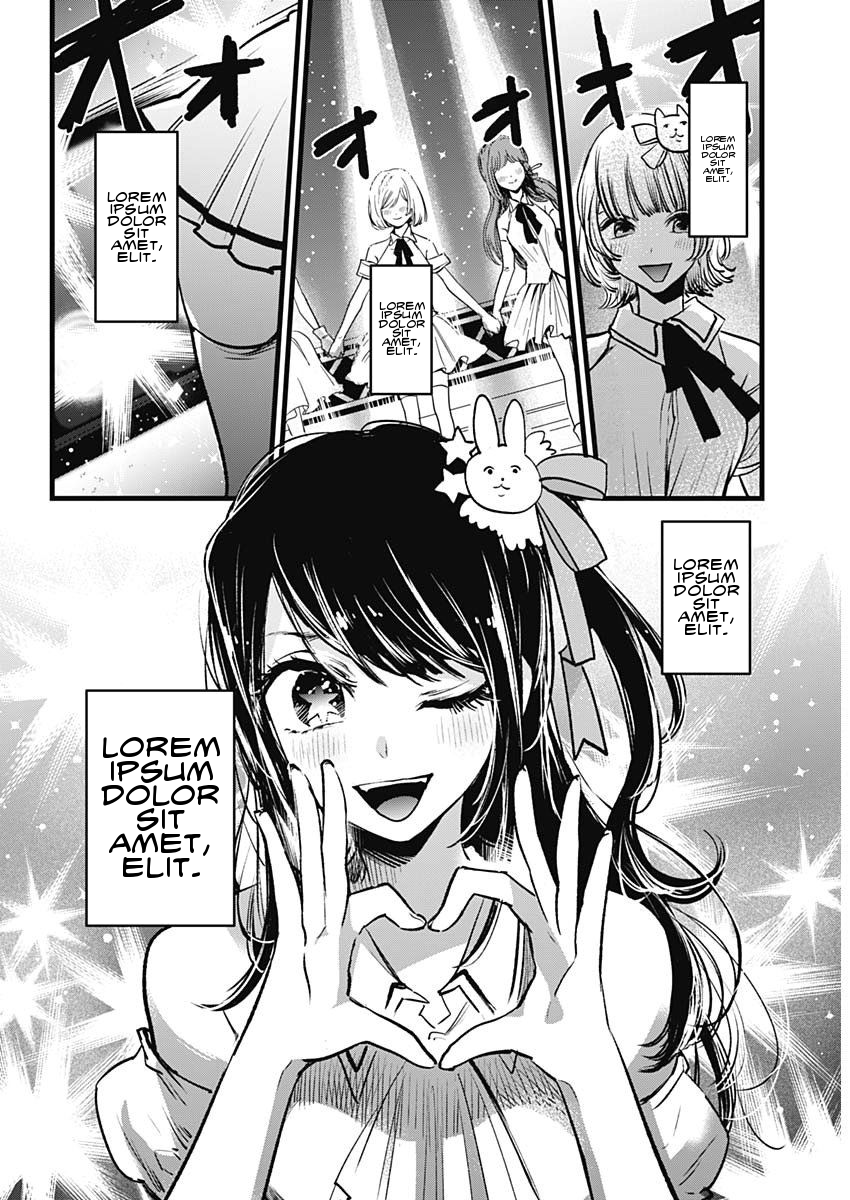
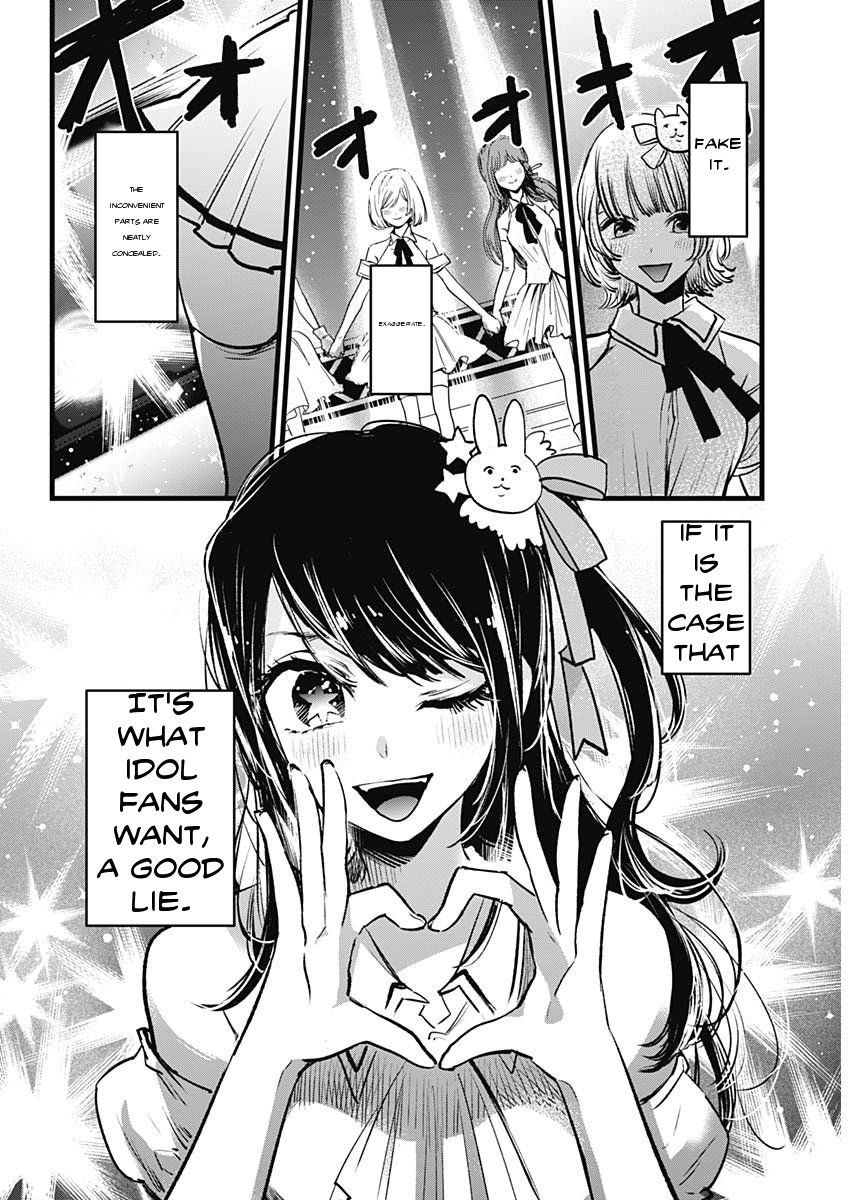
implemented translation

diff --git a/pipelines.py b/pipelines.py
@@ -1,7 +1,11 @@
 from ultralytics import YOLO
 import cv2
 import numpy as np
-from utils import extract_bubble, draw_text_in_bubble
+from manga_ocr import MangaOcr
+import requests
+import traceback
+from requests.utils import requote_uri
+from utils import extract_bubble, draw_text_in_bubble, debug_image, cv2_to_pil
 
 
 class FullConversion:
@@ -9,11 +13,34 @@ class FullConversion:
         self,
         detect_model="models/detection.pt",
         seg_model="models/segmentation.pt",
+        translator_auth=None,
         debug=False,
     ) -> None:
         self.segmentation_model = YOLO(seg_model)
         self.detection_model = YOLO(detect_model)
+        self.ocr = MangaOcr()
+        self.translator_auth = translator_auth
         self.debug = debug
+
+    def translate_text(self, text):
+        if self.translator_auth is None or len(self.translator_auth) == 0:
+            return "Need DeepL Auth"
+
+        try:
+            data = [("target_lang", "EN-US"), ("source_lang", "JA")]
+            data.append(("text", text))
+            uri = f"https://api-free.deepl.com/v2/translate?{'&'.join([f'{data[i][0]}={data[i][1]}' for i in range(len(data))])}"
+            uri = requote_uri(uri)
+            return requests.post(
+                uri,
+                headers={
+                    "Authorization": f"DeepL-Auth-Key {self.translator_auth}",
+                    "Content-Type": "application/x-www-form-urlencoded",
+                },
+            ).json()["translations"][0]["text"]
+        except Exception as e:
+            traceback.print_exc()
+            return "Failed To Get Translation"
 
     def filter_results(self, results, min_confidence=0.65):
         bounding_boxes = np.array(results.boxes.xyxy.cpu(), dtype="int")
@@ -65,8 +92,12 @@ class FullConversion:
                     bubble = frame[y1:y2, x1:x2]
                     text_mask = mask[y1:y2, x1:x2]
                     cleaned, text, bubble_mask = extract_bubble(bubble, text_mask)
+                    text_to_translate = self.ocr(cv2_to_pil(text))
+                    translated = self.translate_text(text_to_translate)
                     frame[y1:y2, x1:x2] = cleaned
-                    frame[y1:y2, x1:x2] = draw_text_in_bubble(box, bubble, bubble_mask)
+                    frame[y1:y2, x1:x2] = draw_text_in_bubble(
+                       bubble, bubble_mask, translated
+                    )
 
                 if self.debug:
                     cv2.putText(
@@ -81,35 +112,3 @@ class FullConversion:
 
             processed.append(frame)
         return processed
-
-
-# from manga_ocr import MangaOcr
-# import requests
-# from utils import extract_bubble
-# from requests.utils import requote_uri
-
-
-# manga_ocr = MangaOcr()
-
-
-# def translate(texts):
-#     data = [("target_lang", "EN-US"), ("source_lang", "JA")]
-#     for text in texts:
-#         data.append(("text", text))
-#     uri = f"https://api-free.deepl.com/v2/translate?{'&'.join([f'{data[i][0]}={data[i][1]}' for i in range(len(data))])}"
-#     print(uri)
-#     uri = requote_uri(uri)
-#     print(uri)
-#     return requests.post(
-#         uri,
-#         headers={
-#             "Authorization": f"DeepL-Auth-Key {KEY GOES HERE}",
-#             "Content-Type": "application/x-www-form-urlencoded",
-#         },
-#     ).json()["translations"]
-
-
-# def get_ocr(frame):
-#     frame = cv2.cvtColor(frame, cv2.COLOR_BGR2RGB)
-
-#     return manga_ocr(Image.fromarray(frame))

diff --git a/utils.py b/utils.py
@@ -25,8 +25,8 @@ def adjust_contrast_brightness(img, contrast: float = 1.0, brightness: int = 0):
     return cv2.addWeighted(img, contrast, img, 0, brightness)
 
 
-def debug_image(img):
-    cv2.imshow("debug", img)
+def debug_image(img, name="debug"):
+    cv2.imshow(name, img)
     cv2.waitKey(0)
 
 
@@ -71,7 +71,13 @@ def ensure_gray(img):
 def do_mask(a, b, mask, inv=False):
     mask = ensure_gray(mask)
     a_loc, b_loc = a.copy(), b.copy()
-    mask_inv = cv2.bitwise_not(mask) if not inv else mask
+    mask_inv = cv2.bitwise_not(mask)
+
+    if inv:
+        temp = mask
+        mask = mask_inv
+        mask_inv = temp
+
     a_loc = cv2.bitwise_and(a_loc, a_loc, mask=mask_inv)
     b_loc = cv2.bitwise_and(b_loc, b_loc, mask=mask)
     return cv2.add(a_loc, b_loc)
@@ -85,9 +91,7 @@ def clean_text(frame, frame_mask):
         np.full(cleaned.shape, 255, dtype=cleaned.dtype),
         frame_mask,
     )
-
-    text = do_mask(frame, np.full(text.shape, 255, dtype=text.dtype), frame_mask, True)
-
+    text = do_mask(text, np.full(text.shape, 255, dtype=text.dtype), frame_mask, True)
     return text, cleaned
 
 
@@ -303,10 +307,14 @@ def wrap_text(text, max_chars):
 
 def get_average_font_size(font, text="some text here"):
     x, y, w, h = font.getbbox(text)
-    return max(map(lambda a: font.getbbox(a)[2], list(text))), h
+    widths = list(map(lambda a: font.getbbox(a)[2], list(text)))
+    widths.sort(reverse=True)
+    return widths[1] if len(widths) > 1 else widths[0], h
 
 
-def get_best_font_size(text, wh, font_file, start_size=18, step=1):
+def get_best_font_size(
+    text, wh, font_file, space_between_lines=1, start_size=18, step=1
+):
     current_font_size = start_size
     current_font = None
 
@@ -325,21 +333,19 @@ def get_best_font_size(text, wh, font_file, start_size=18, step=1):
         if not was_successful:
             current_font_size -= step
             continue
-        height_needed = len(lines) * cur_f_height
+        height_needed = (len(lines) * cur_f_height) + (
+            (len(lines) - 1) * space_between_lines
+        )
         if height_needed < max_height:
             return current_font_size, chars_per_line, cur_f_height, iterations
         current_font_size -= step
 
 
 def draw_text_in_bubble(
-    bbox,
     frame,
     frame_mask,
     text="Lorem ipsum dolor sit amet,  elit.",
 ):
-    # text = " ".join(list(map(lambda a: en_hyphenator.hyphenate(a), text.split(" "))))
-    (x1, y1, x2, y2) = bbox
-
     rect, pt1, pt2 = get_text_area(frame_mask)
 
     max_height = rect[3]
@@ -347,10 +353,12 @@ def draw_text_in_bubble(
 
     # cv2.rectangle(frame, pt1, pt2, (0, 0, 255), 1)
 
+    space_between_lines = 10
     font_size, chars_per_line, line_height, iters = get_best_font_size(
         text,
         (max_width, max_height),
         "fonts/BlambotClassicBB.ttf",
+        space_between_lines,
         90,
         1,
     )
@@ -373,8 +381,18 @@ def draw_text_in_bubble(
             (
                 draw_x + abs(((max_width - w) / 2)),
                 draw_y
-                + ((max_height - (len(wrapped) * line_height)) / 2)
-                + (line_no * line_height),
+                + (
+                    (
+                        max_height
+                        - (
+                            (len(wrapped) * line_height)
+                            + (len(wrapped) * space_between_lines)
+                        )
+                    )
+                    / 2
+                )
+                + (line_no * line_height)
+                + (space_between_lines * line_no),
             ),
             str(line),
             fill=(0, 0, 0, 255),

diff --git a/convert.py b/convert.py
@@ -7,7 +7,7 @@ from pipelines import FullConversion
 if len(sys.argv) < 2:
     raise Exception("No file's specified")
 
-converter = FullConversion()
+converter = FullConversion(translator_auth="")
 
 filenames = sys.argv[1 : len(sys.argv)]
 filenames = sys.argv[1 : len(sys.argv)]

diff --git a/README.md b/README.md
@@ -17,11 +17,12 @@ A long, long, long time ago, a wee lad was reading a manga. It was such a blissf
 - [x] Free text recognition (should improve with more training data)
 - [x] Bubble text extraction
 - [x] Bubble masking
-- [x] Translated text insertion
+- [x] Bubble text insertion
 - [ ] Bubble Text ocr
-- [ ] Bubble Text translation
+- [x] Bubble Text translation
 - [ ] Free text ocr
 - [ ] Free text translation
+- [ ] Improve text resize algorithm, some texts are too small/big
 
 ## Examples
 